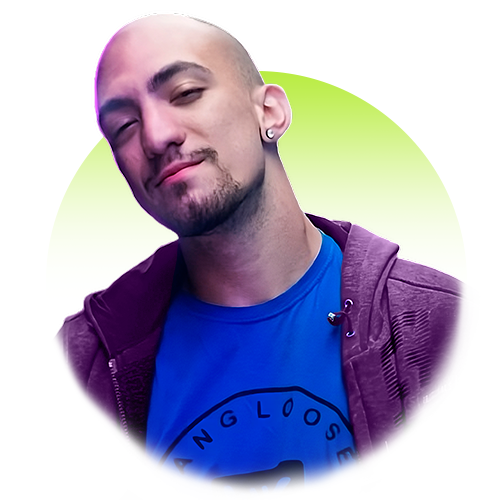
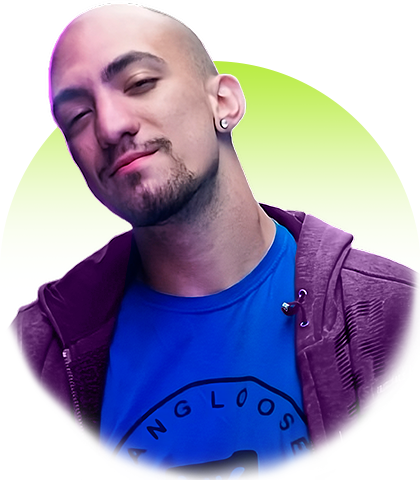
CSS UPDATE

diff --git a/style.css b/style.css
@@ -15,6 +15,7 @@
 *{
     margin: 0px;
     padding: 0px;    
+    box-sizing: border-box;
     text-decoration: none;
     font-family: "Source Sans 3", sans-serif;    
 }
@@ -23,6 +24,12 @@ body{
     background-image: linear-gradient(to top, var(--purple04) , var(--purple03)); 
     display: flex;
     flex-direction: column;    
+}
+
+main{
+    display: flex;
+    flex-direction: column;
+    align-items: center;
 }
 
 #nome{
@@ -34,14 +41,16 @@ header{
     background: rgba(150, 102, 173, 0.2);      
     margin-top: 20px;
 }
-#divdoheader{    
+#divdoheader{        
     margin-left: auto;
     margin-right: auto;        
     color: var(--green01);  
     display: flex;
-    flex-flow: row wrap;  
-    justify-content: space-around;              
-    padding: 10px;        
+    flex-flow: row wrap; 
+    justify-content: center; 
+    align-items: center;
+    column-gap: 10%;
+    padding: 15px 0px;
 }
 
 header a{
@@ -50,11 +59,47 @@ header a{
     font-family: "Outfit", sans-serif;    
 }
 
+
+
 header ul{
     list-style: none;
-    display: flex;        
-    column-gap: 5%;
-    justify-content: center;        
+    display: flex;             
+    justify-content: space-between;       
+}
+
+@media screen and (min-width: 1049px) {
+    #sobresection{        
+        width: 1024px;       
+        display: flex;
+        flex-direction: row;
+        justify-content: center;   
+        align-items: center;     
+        padding-top: 10px;
+        padding-bottom: 10px; 
+        column-gap: 10px;    
+    }
+
+    #divdoheader nav{
+        width: 500px;        
+    }
+}
+
+@media screen and (max-width: 1048px) {
+    #sobresection{        
+        width: 90%;       
+        display: flex;
+        flex-direction: row;
+        justify-content: center;   
+        align-items: center;
+        flex-wrap: wrap;     
+        padding-top: 10px;
+        padding-bottom: 10px; 
+        column-gap: 10px;    
+    }
+
+    #divdoheader nav{
+        width: 400px;        
+    }
 }
 
 #sobre{
@@ -72,6 +117,9 @@ p{
     color: var(--green01);
     font-size: 4em;
     font-family: "Fjalla One", sans-serif;
+    text-align: center;
+    margin-top: 20px;
+    margin-bottom: 10px;
 }
 
 .content{
@@ -80,8 +128,24 @@ p{
     color: var(--green01);       
 }
 
+#portfoliosection{
+    width: 100%;
+    display: flex;
+    flex-direction: column;
+    align-items: center;
+}
+
 #portfolionavblock{
     background-color: var(--purple04);
+    width: 100%;
+}
+
+#portfoliolist{
+    display: flex;
+    flex-direction: row;
+    justify-content: center;
+    column-gap: 50px;
+    list-style: none;
 }
 
 #portfoliolist>li{
@@ -90,10 +154,22 @@ p{
     font-weight: bold;
     font-family: "Outfit", sans-serif;
 }
-
-#curriculoimage{
+#curriculoimage{    
     border-radius: 10px;
     filter: drop-shadow(5px 5px 10px #0000008f);
+    max-width: 90%;
+}
+
+#curriculosection{
+    display: flex;
+    flex-direction: column;
+    align-items: center;
+}
+
+#curriculoaside{
+    display: flex;
+    flex-direction: column;
+    align-items: center;
 }
 
 #pdfcurriculo{
@@ -102,10 +178,17 @@ p{
 }
 
 footer{
-    background-color: var(--purple01);
+    background-color: var(--purple01);    
 }
+
+address{
+    display: flex;            
+    justify-content: center;
+    column-gap: 5%;        
+}
+
 address>a{
     text-decoration: none;
     color: var(--green00);
-    font-size: 21px;
+    font-size: 21px;    
 }

diff --git a/index.html b/index.html
@@ -22,7 +22,7 @@
         </div>
     </header>
     <main>
-        <section>
+        <section id="sobresection">
             <figure><img src="Imagens/foto-principal-500x500.png" alt="Foto de Guilherme Abdalla"></figure>
             <article id="sobre">
                 <p><strong>Guilherme Abdalla</strong> é um artista 3D e programador. Sempre foi apaixonado por tecnologia e arte, se entregando logo cedo a área de desenvolvimento de jogos, formou-se como <strong>Técnologo em Jogos Digitais</strong> pela <strong>Universidade Paulista - UNIP</strong> em dezembro de 2019 e desde então, se dedicou para aprender softwares como: UNITY (Software e programação em C#), Blender, Zbrush e diversos outros (descritos no currículo) que compõem a pipeline de GameDev.</p>
@@ -30,7 +30,7 @@
                 <p>Tem uma paixão especial por trabalhar em equipe e ensinar sempre que puder, pois acredita que ensinar é o melhor caminho para aprender e fixar conhecimentos importantes.</p>
             </article>
         </section>
-        <section>
+        <section id="portfoliosection">
             <h1 class="header1">PORTFÓLIO</h1>
             <nav id="portfolionavblock">
                 <ul id="portfoliolist">
@@ -56,10 +56,10 @@
         </section>
         <section>
             <h1 class="header1">CURRÍCULO</h1>
-            <figure>
+            <figure id="curriculosection">
                 <img id="curriculoimage" src="Imagens/curriculo-print.png" alt="Currículo de Guilherme Abdalla">
             </figure>
-            <aside>
+            <aside id="curriculoaside">
                 <a id="pdfcurriculo" href="#">Acessar PDF do Currículo</a>
             </aside>
         </section>
